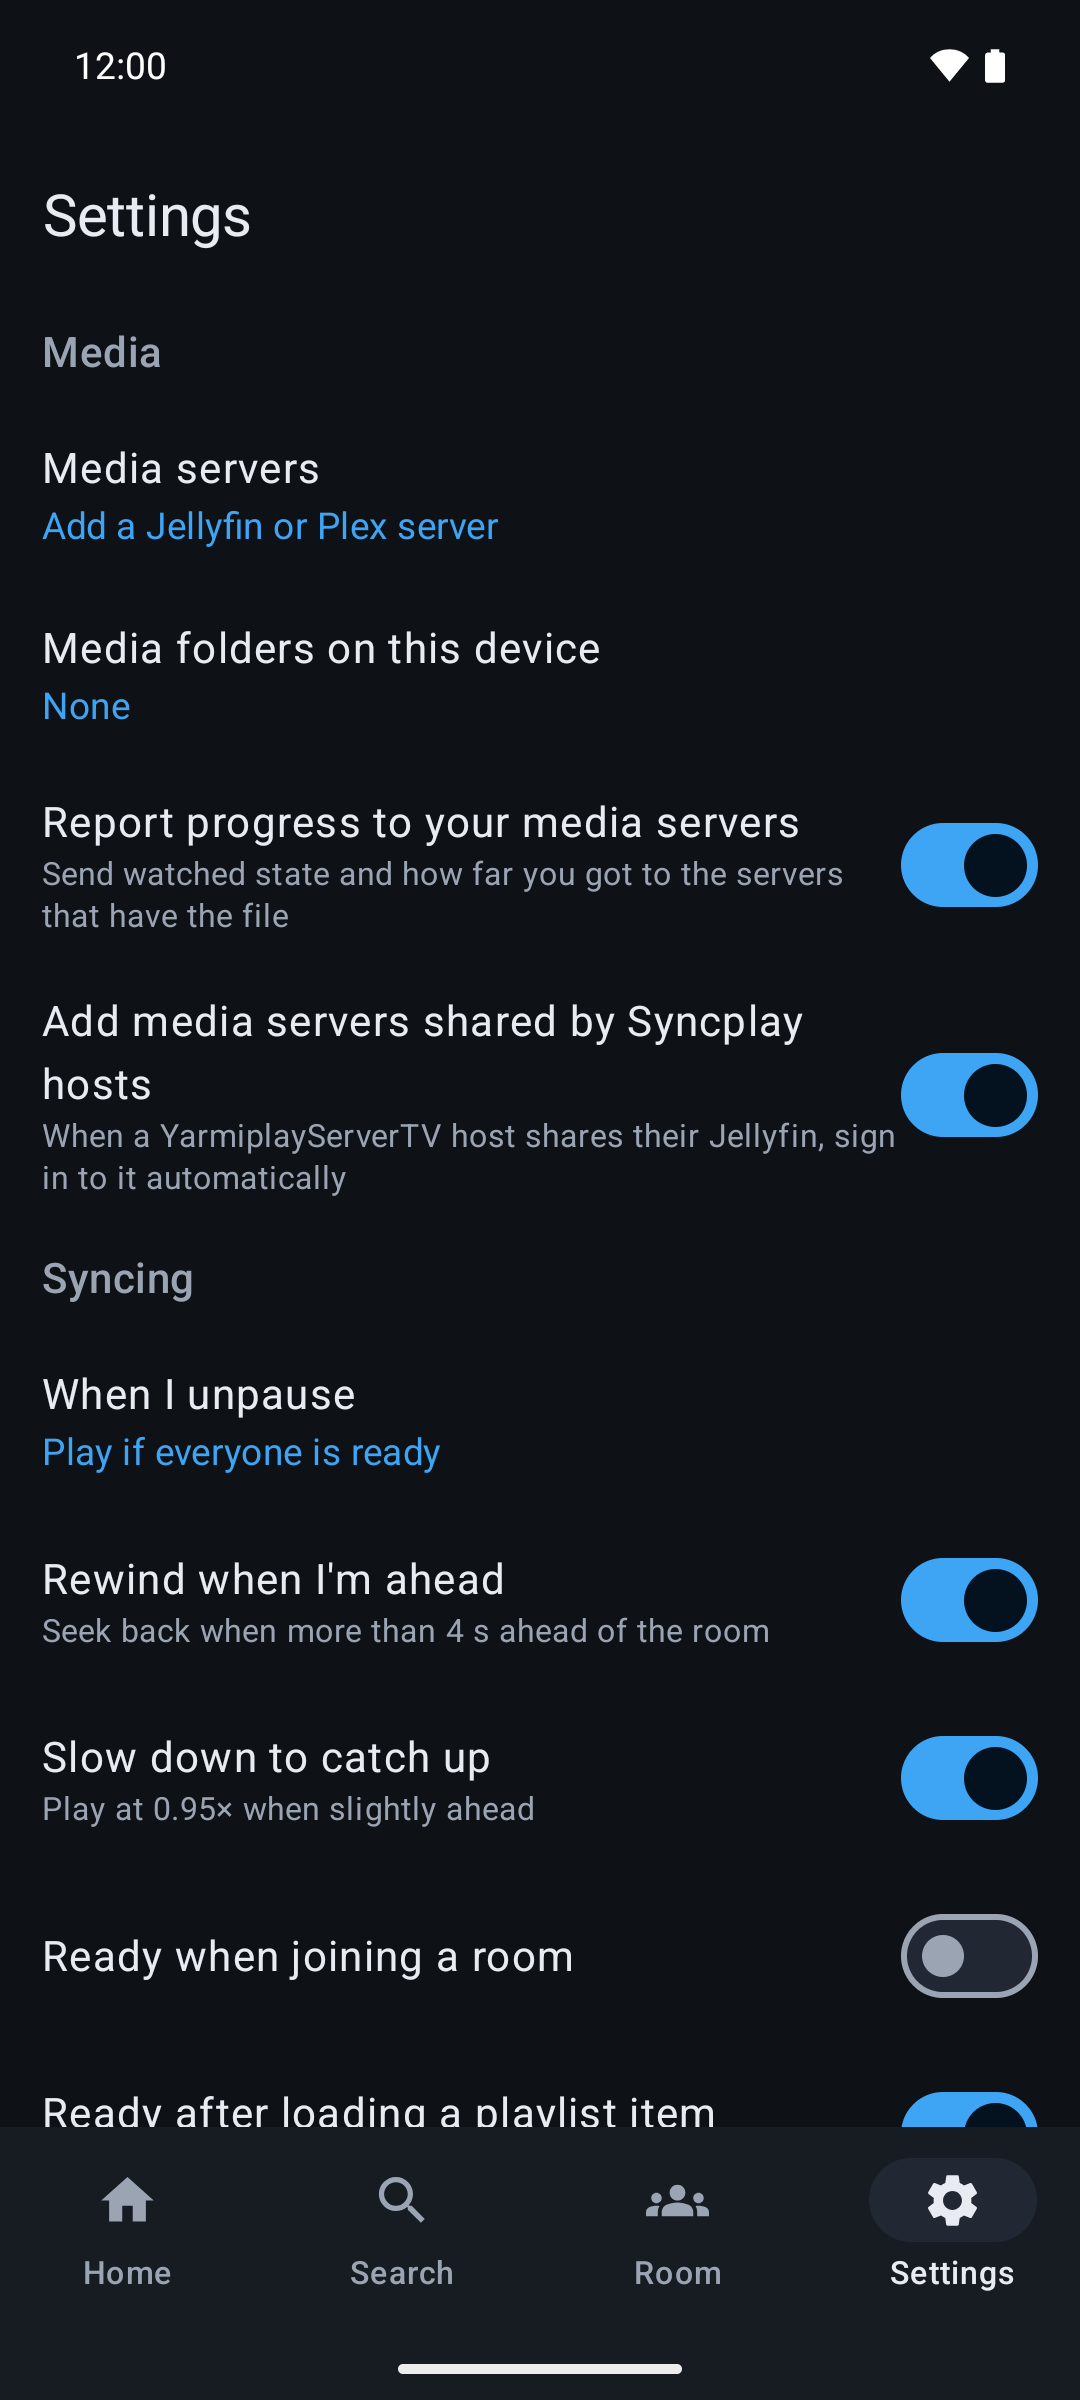
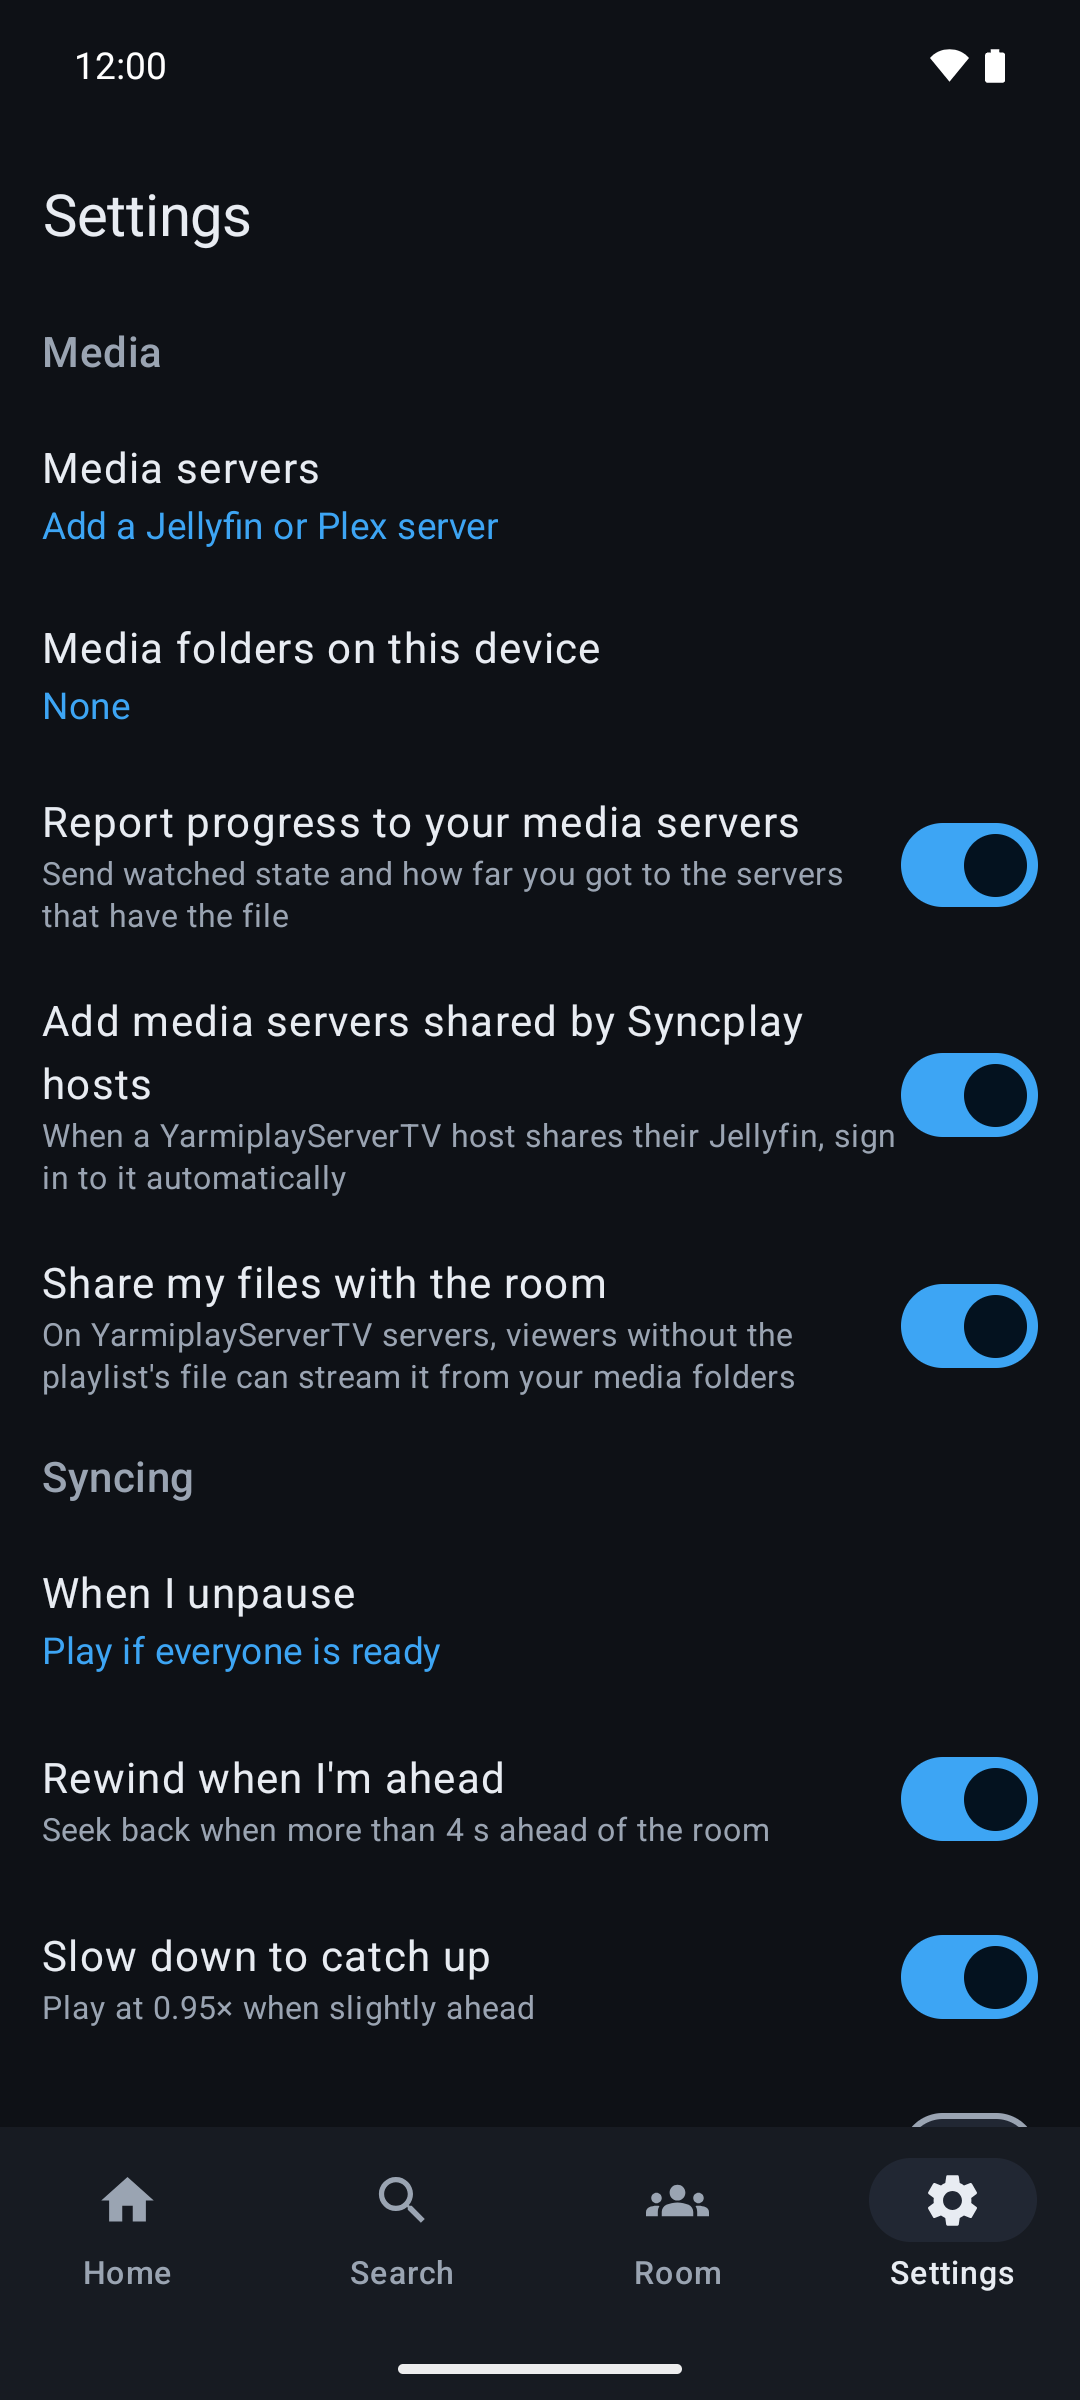
Settings: Share my files with the room, to opt out of the YarmiplayServerTV file relay
With it off the app offers nothing, withdraws what it offered and refuses upload requests; it can still play files other viewers share.

diff --git a/shared/src/commonMain/kotlin/com/yarmiplaytv/relay/RelayOffers.kt b/shared/src/commonMain/kotlin/com/yarmiplaytv/relay/RelayOffers.kt
@@ -14,6 +14,7 @@ import com.yarmiplaytv.syncplay.Yarmiplay
 import kotlinx.coroutines.CoroutineScope
 import kotlinx.coroutines.Dispatchers
 import kotlinx.coroutines.FlowPreview
+import kotlinx.coroutines.flow.Flow
 import kotlinx.coroutines.flow.collectLatest
 import kotlinx.coroutines.flow.combine
 import kotlinx.coroutines.flow.debounce
@@ -25,26 +26,29 @@ import java.util.concurrent.ConcurrentHashMap
 
 /**
  * Offers the room's relay the local files that match its playlist, again whenever the room, the playlist, the
- * local index or the session changes (the client drops repeats of what the server already has).
+ * local index or the session changes (the client drops repeats of what the server already has). With [sharing]
+ * off it offers nothing and withdraws what it offered, so upload requests find no file and are refused.
  */
 @OptIn(FlowPreview::class)
 class RelayOffers(
     private val scope: CoroutineScope,
     private val sync: SyncController,
     private val local: LocalLibrary,
+    private val sharing: Flow<Boolean>,
 ) {
     private val hashes = ConcurrentHashMap<String, String>()
     @Volatile private var offered: Map<String, LocalFile> = emptyMap()
 
-    private data class Inputs(val room: String, val playlist: List<String>, val active: Boolean, val files: List<LocalFile>)
+    private data class Inputs(val room: String, val playlist: List<String>, val active: Boolean, val files: List<LocalFile>, val sharing: Boolean)
 
     fun start() {
         scope.launch {
-            combine(sync.room, local.files) { room, files ->
-                Inputs(room.room, room.playlist, room.yarmiplay.relayActive, files)
+            combine(sync.room, local.files, sharing) { room, files, sharing ->
+                Inputs(room.room, room.playlist, room.yarmiplay.relayActive, files, sharing)
             }.distinctUntilChanged().debounce(300).collectLatest { inputs ->
-                if (!inputs.active) {
+                if (!inputs.active || !inputs.sharing) {
                     offered = emptyMap()
+                    if (inputs.active) sync.offerFiles(emptyList())
                     return@collectLatest
                 }
                 val users = sync.room.value.users

diff --git a/shared/src/commonMain/kotlin/com/yarmiplaytv/data/SettingsStore.kt b/shared/src/commonMain/kotlin/com/yarmiplaytv/data/SettingsStore.kt
@@ -89,6 +89,8 @@ data class AppSettings(
     val deviceName: String = "",
     /** Add the Jellyfin a YarmiplayServerTV host shares with their room. */
     val addSharedServers: Boolean = true,
+    /** Offer the room's YarmiplayServerTV file relay the playlist files in this device's media folders. */
+    val shareFiles: Boolean = true,
     /** What each Syncplay server ("host:port") turned out to be when last joined. */
     val knownServers: Map<String, KnownServer> = emptyMap(),
 )
@@ -166,6 +168,7 @@ class SettingsStore(private val dataStore: DataStore<Preferences>) {
 
         val deviceName = stringPreferencesKey("device_name")
         val addSharedServers = booleanPreferencesKey("add_shared_servers")
+        val shareFiles = booleanPreferencesKey("share_files")
         /** One [KnownServer] per line: "host:port", "yarmiplay" or "syncplay", server id and access, tab-separated. */
         val knownServers = stringPreferencesKey("sp_known_servers")
     }
@@ -226,6 +229,7 @@ class SettingsStore(private val dataStore: DataStore<Preferences>) {
             acceptedRoomRules = p[Keys.acceptedRoomRules] ?: false,
             deviceName = p[Keys.deviceName] ?: "",
             addSharedServers = p[Keys.addSharedServers] ?: true,
+            shareFiles = p[Keys.shareFiles] ?: true,
             knownServers = p[Keys.knownServers]?.let(::decodeKnown) ?: emptyMap(),
         )
     }
@@ -242,6 +246,8 @@ class SettingsStore(private val dataStore: DataStore<Preferences>) {
     suspend fun saveDeviceName(name: String) = dataStore.edit { it[Keys.deviceName] = name.take(60) }
 
     suspend fun saveAddSharedServers(on: Boolean) = dataStore.edit { it[Keys.addSharedServers] = on }
+
+    suspend fun saveShareFiles(on: Boolean) = dataStore.edit { it[Keys.shareFiles] = on }
 
     /** Remembers what [server] ("host:port") is; null forgets it. */
     suspend fun saveKnownServer(server: String, known: KnownServer?) = dataStore.edit {

diff --git a/shared/src/desktopTest/kotlin/com/yarmiplaytv/sync/YarmiplayServerTest.kt b/shared/src/desktopTest/kotlin/com/yarmiplaytv/sync/YarmiplayServerTest.kt
@@ -149,6 +149,31 @@ class YarmiplayServerTest {
         }
     }
 
+    @Test
+    fun `a viewer who turned sharing off offers nothing and can withdraw an offer`() {
+        val server = System.getenv("YARMIPLAY_TEST_SERVER").orEmpty()
+        assumeTrue("YARMIPLAY_TEST_SERVER not set", server.isNotBlank())
+        val media = tmp.newFolder("media")
+        File(media, "private.mkv").writeBytes(Random(17).nextBytes(2 * 1024 * 1024 + 5))
+        val app = join(server, "private")
+        runBlocking { app.settingsStore.saveShareFiles(false) }
+        awaitTrue("sharing to be off") { !app.settings.value.shareFiles }
+        awaitTrue("an extension session") { app.sync.room.value.yarmiplay.relayActive }
+        onMain { app.local.addFolder(FileLocalLibrary.uriOf(media.toPath())) }
+        awaitTrue("the folder to be indexed") { app.local.files.value.isNotEmpty() }
+        onMain { app.playlist.shared.add(listOf("private.mkv")) }
+        awaitTrue("the playlist to come back") { app.sync.room.value.playlist == listOf("private.mkv") }
+        runBlocking { delay(3_000) }
+        assertTrue("offered with sharing off", onMain { app.sync.room.value.yarmiplay.relayFiles.none { it.sources > 0 } })
+
+        runBlocking { app.settingsStore.saveShareFiles(true) }
+        awaitTrue("the file to be offered once sharing is on") {
+            app.sync.room.value.yarmiplay.relayFiles.any { it.name == "private.mkv" && it.sources == 1 }
+        }
+        runBlocking { app.settingsStore.saveShareFiles(false) }
+        awaitTrue("the offer to be withdrawn") { app.sync.room.value.yarmiplay.relayFiles.none { it.sources > 0 } }
+    }
+
     /** Runs YarmiplayServerTV's scripts/fake_peer.py (YARMIPLAY_FAKE_PEER) in our room, with its output kept for failures. */
     private fun fakePeer(server: String, name: String, script: String): Pair<Process, StringBuffer> {
         val peer = System.getenv("YARMIPLAY_FAKE_PEER").orEmpty()

diff --git a/app/src/androidTest/java/com/yarmiplaytv/support/AppState.kt b/app/src/androidTest/java/com/yarmiplaytv/support/AppState.kt
@@ -56,6 +56,7 @@ class AppState {
             store.saveServerPrefs(saved.preferredServer, saved.reportPlayback)
             store.saveDeviceName(saved.deviceName)
             store.saveAddSharedServers(saved.addSharedServers)
+            store.saveShareFiles(saved.shareFiles)
             store.replaceRoomPlaylists(savedRoomPlaylists)
         }
         onMain {
@@ -88,6 +89,7 @@ class AppState {
             store.saveServerPrefs("", reportPlayback = true)
             store.saveDeviceName("")
             store.saveAddSharedServers(true)
+            store.saveShareFiles(true)
             store.replaceRoomPlaylists(emptyMap())
         }
         onMain { removeAllServers() }
@@ -96,7 +98,7 @@ class AppState {
         waitUntil(5_000) {
             val s = container.settings.value
             s.syncplay == PROFILE && s.jellyfinServers.isEmpty() && s.plexServers.isEmpty() && container.mediaSource.value == null &&
-                s.lastJellyfinUrl == LAST_JELLYFIN_URL && s.showRoomChat && s.acceptedRoomRules && s.deviceName.isEmpty() && s.addSharedServers
+                s.lastJellyfinUrl == LAST_JELLYFIN_URL && s.showRoomChat && s.acceptedRoomRules && s.deviceName.isEmpty() && s.addSharedServers && s.shareFiles
         }
         clearFeed()
     }

diff --git a/shared/src/commonMain/kotlin/com/yarmiplaytv/relay/RelayManager.kt b/shared/src/commonMain/kotlin/com/yarmiplaytv/relay/RelayManager.kt
@@ -16,6 +16,7 @@ import kotlinx.coroutines.flow.MutableStateFlow
 import kotlinx.coroutines.flow.StateFlow
 import kotlinx.coroutines.flow.asStateFlow
 import kotlinx.coroutines.flow.distinctUntilChanged
+import kotlinx.coroutines.flow.flowOf
 import kotlinx.coroutines.flow.map
 import kotlinx.coroutines.isActive
 import kotlinx.coroutines.launch
@@ -101,11 +102,13 @@ class RelayManager(
     private val player: Player,
     local: LocalLibrary,
     cacheDir: File,
+    /** Whether this device offers its files to the room; viewing relayed files works either way. */
+    sharing: Flow<Boolean> = flowOf(true),
 ) {
     private val http = relayHttpClient()
     private val cache by lazy { RelayCache(File(cacheDir, "relay")) }
     private val proxy = RelayProxy(scope)
-    private val offers = RelayOffers(scope, sync, local)
+    private val offers = RelayOffers(scope, sync, local, sharing)
     private val uploader = RelayUploader(scope, sync, local, offers, http)
 
     private val transfers = HashMap<String, RelayTransfer>()

diff --git a/app/src/main/java/com/yarmiplaytv/ui/settings/SettingsScreen.kt b/app/src/main/java/com/yarmiplaytv/ui/settings/SettingsScreen.kt
@@ -125,6 +125,12 @@ fun SettingsScreen(container: AppContainer, nav: Navigator) {
             { container.scope.launch { container.settingsStore.saveAddSharedServers(!settings.addSharedServers) } },
             subtitle = "When a YarmiplayServerTV host shares their Jellyfin, sign in to it automatically",
         )
+        ToggleRow(
+            "Share my files with the room",
+            settings.shareFiles,
+            { container.scope.launch { container.settingsStore.saveShareFiles(!settings.shareFiles) } },
+            subtitle = "On YarmiplayServerTV servers, viewers without the playlist's file can stream it from your media folders",
+        )
 
         SectionTitle("Playback")
         ToggleRow("Hardware decoding", pb.hardwareDecoding, { savePlayback(pb.copy(hardwareDecoding = !pb.hardwareDecoding)) }, subtitle = "MediaCodec with software fallback. Takes effect after restarting the app")

diff --git a/shared/src/commonMain/kotlin/com/yarmiplaytv/AppContainer.kt b/shared/src/commonMain/kotlin/com/yarmiplaytv/AppContainer.kt
@@ -101,7 +101,7 @@ class AppContainer(
         deviceAuth = deviceKeys?.let { keys -> DeviceKeys(keys) { deviceDisplayName } }
     }
     /** The YarmiplayServerTV file relay; idle on other servers. */
-    val relay: RelayManager? = cacheDir?.let { RelayManager(scope, sync, player, local, it) }
+    val relay: RelayManager? = cacheDir?.let { RelayManager(scope, sync, player, local, it, settings.map { s -> s.shareFiles }) }
     private val locator = MediaLocator(local, servers) { name -> relay?.find(name) }.apply { preferredServer = initial.preferredServer }
     val playlist = PlaylistController(scope, sync, player, mediaSource, local, locator, relay)
     private val reporter = PlaybackReporter(scope, player, playlist.nowPlaying, servers).apply { enabled = initial.reportPlayback }

diff --git a/shared/src/commonMain/kotlin/com/yarmiplaytv/ui/mobile/MobileSettings.kt b/shared/src/commonMain/kotlin/com/yarmiplaytv/ui/mobile/MobileSettings.kt
@@ -75,6 +75,12 @@ fun MobileSettingsScreen(container: AppContainer, nav: Navigator) {
                 settings.addSharedServers,
                 Modifier.testTag("toggle_add_shared_servers"),
             ) { container.scope.launch { container.settingsStore.saveAddSharedServers(it) } }
+            ToggleSetting(
+                "Share my files with the room",
+                "On YarmiplayServerTV servers, viewers without the playlist's file can stream it from your media folders",
+                settings.shareFiles,
+                Modifier.testTag("toggle_share_files"),
+            ) { container.scope.launch { container.settingsStore.saveShareFiles(it) } }
 
             SectionHeader("Syncing")
             ValueSetting(

diff --git a/README.md b/README.md
@@ -35,7 +35,8 @@ desktops, with [mpv](https://mpv.io/) built in. Media comes from your [Jellyfin]
     without the password. Settings > Device name sets what the host sees; the connect screen can forget the key.
   - File relay: someone who doesn't have the playlist's file streams it from a viewer who does, through the
     Syncplay server, or downloads it first when the connection is too slow to play it smoothly. Relayed files
-    are cached for at most 24 hours (up to 4 GB) and deleted when you leave the room.
+    are cached for at most 24 hours (up to 4 GB) and deleted when you leave the room. Settings > Share my files
+    with the room stops this device from offering its files; it can still play files others share.
   - A Jellyfin server the host shares is added automatically, as "<name> (via <server>)"
     (Settings > Add media servers shared by Syncplay hosts).
 

diff --git a/docs/privacy.md b/docs/privacy.md
@@ -29,7 +29,8 @@ for a new version.
     to the app, the app tells the server each file's name, size, duration and a fingerprint of its contents
     (a SHA-256 hash of its first and last megabyte). When another viewer in the room plays one of them, the
     app uploads the parts the server asks for, and the server passes them on to that viewer. Files that
-    aren't in the room's playlist are never offered or uploaded.
+    aren't in the room's playlist are never offered or uploaded. Turn this off with **Share my files with the
+    room** in Settings; you can still watch files other viewers share.
   - *Shared media servers:* when the host shares their Jellyfin server, the app adds it to your servers and
     signs in with a Quick Connect code that the Syncplay server approves for you. Turn this off with
     **Add media servers shared by Syncplay hosts** in Settings.
